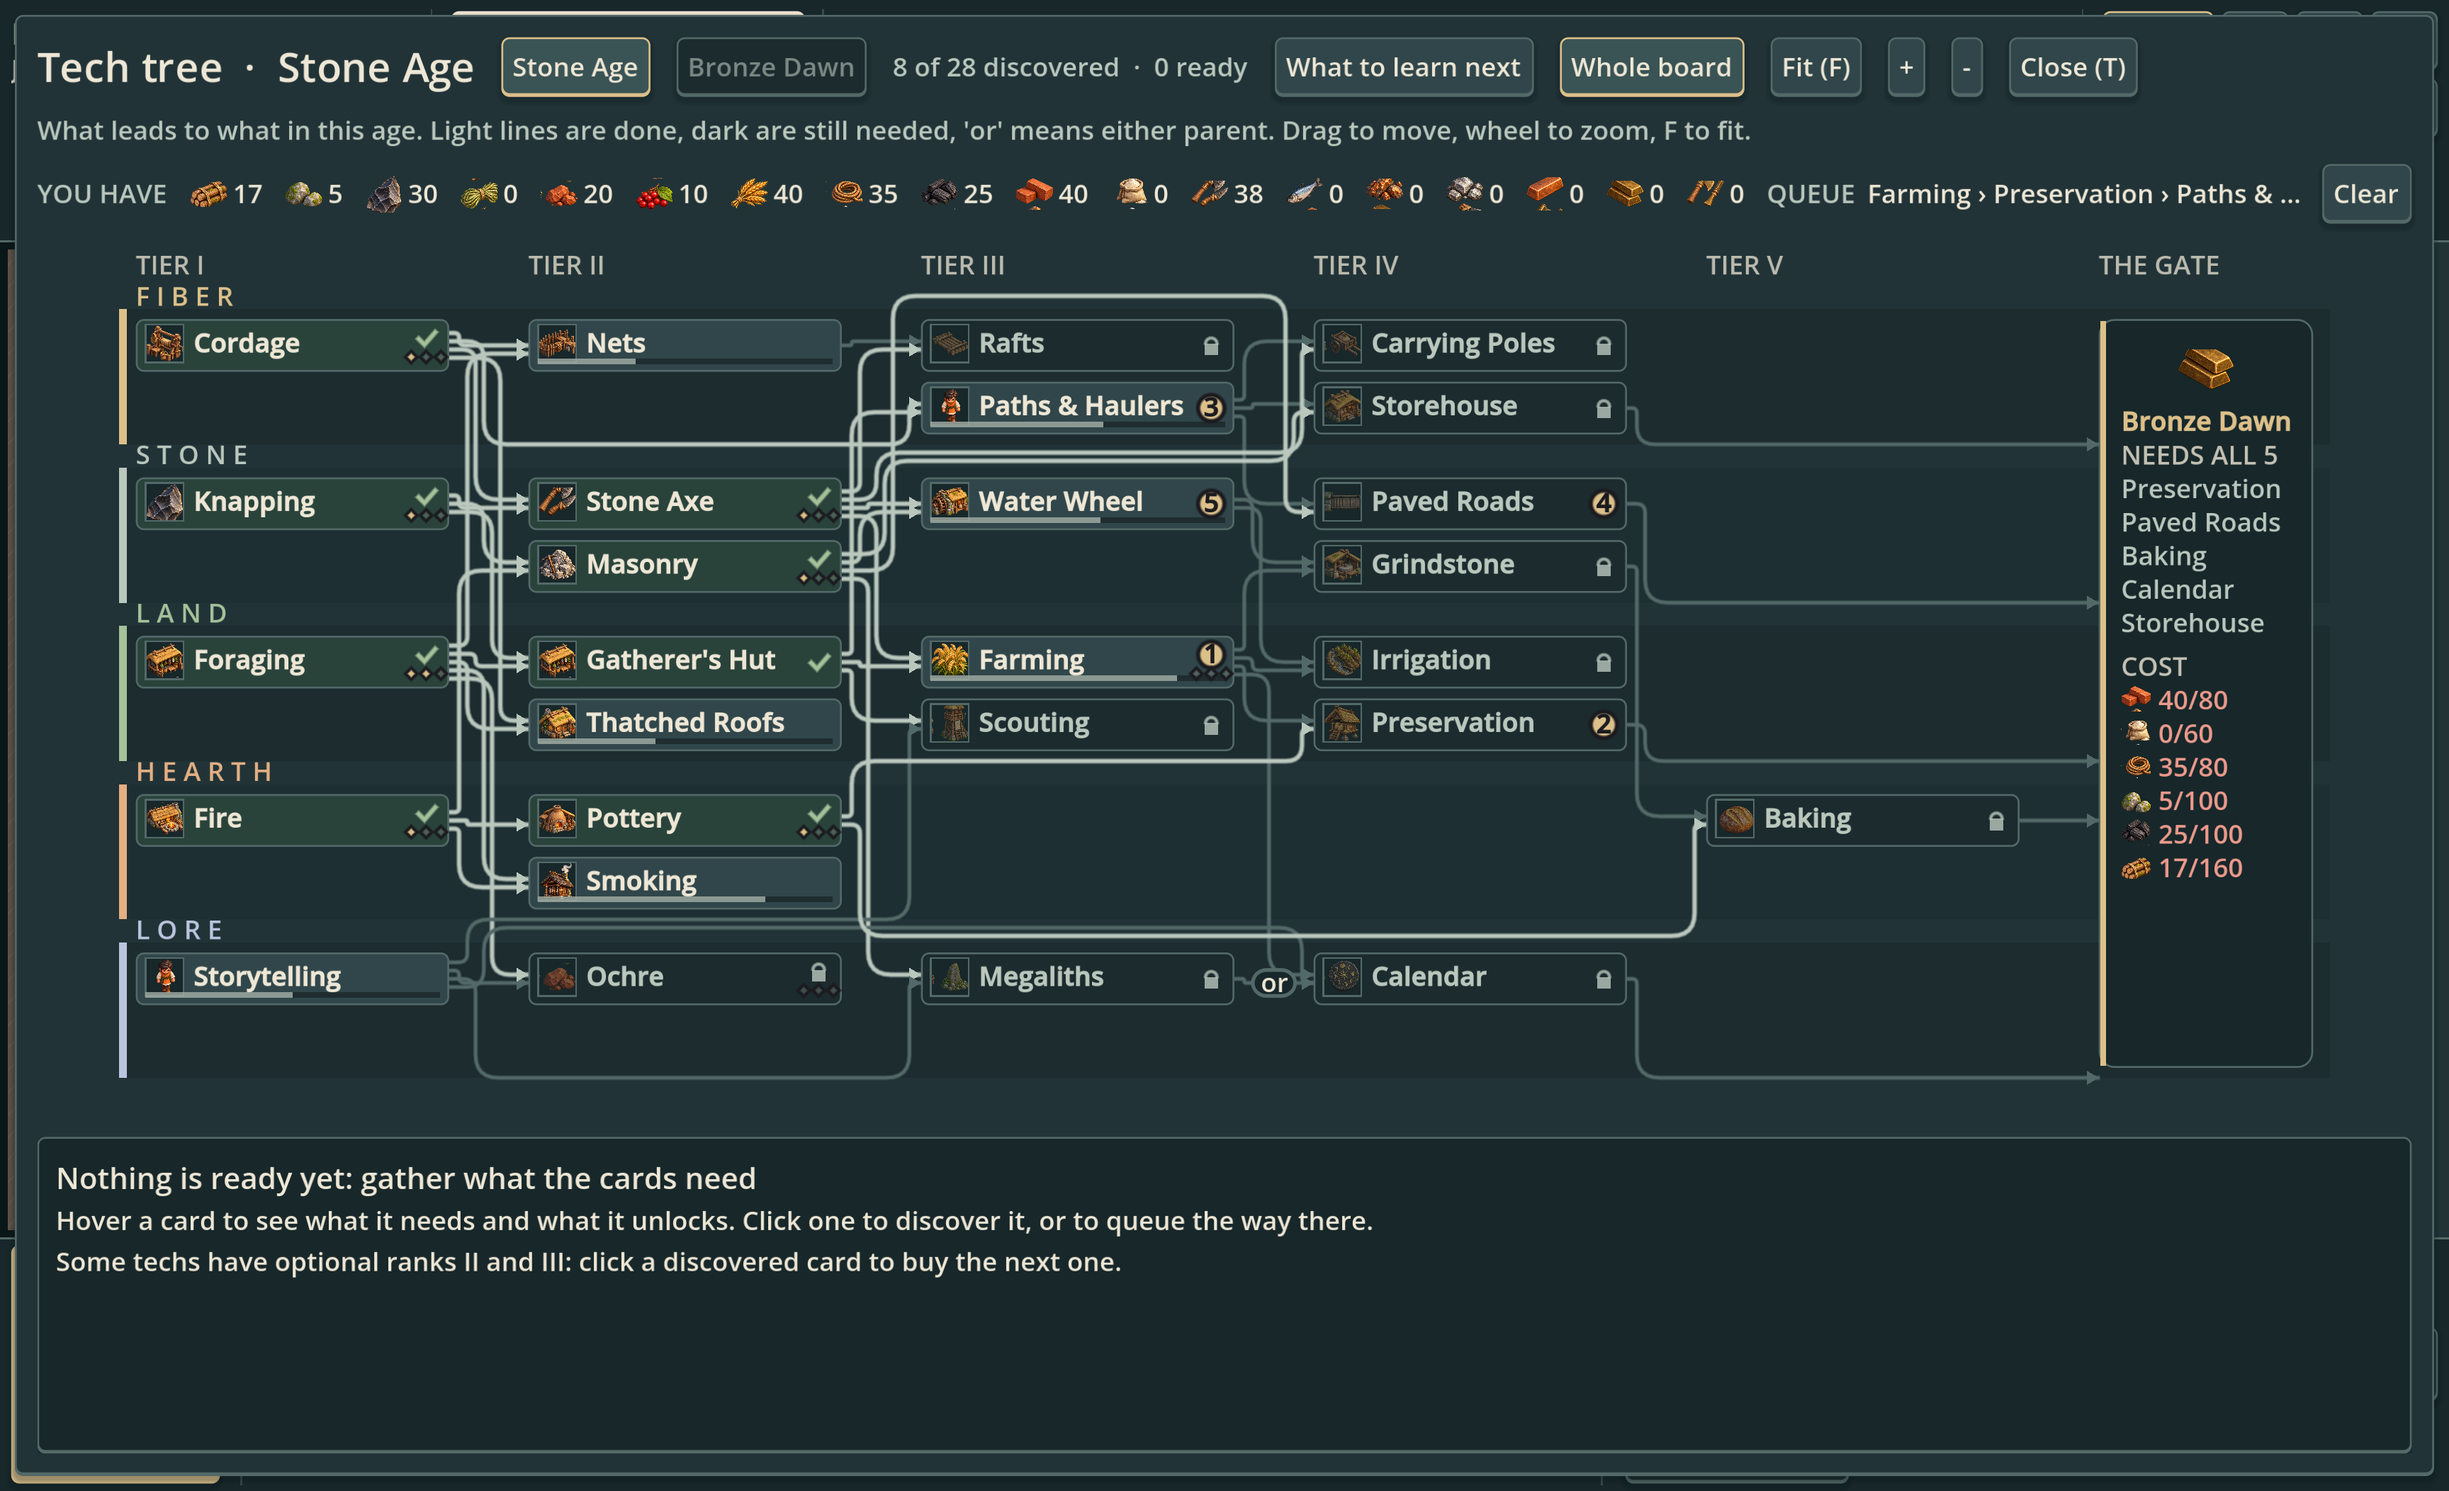
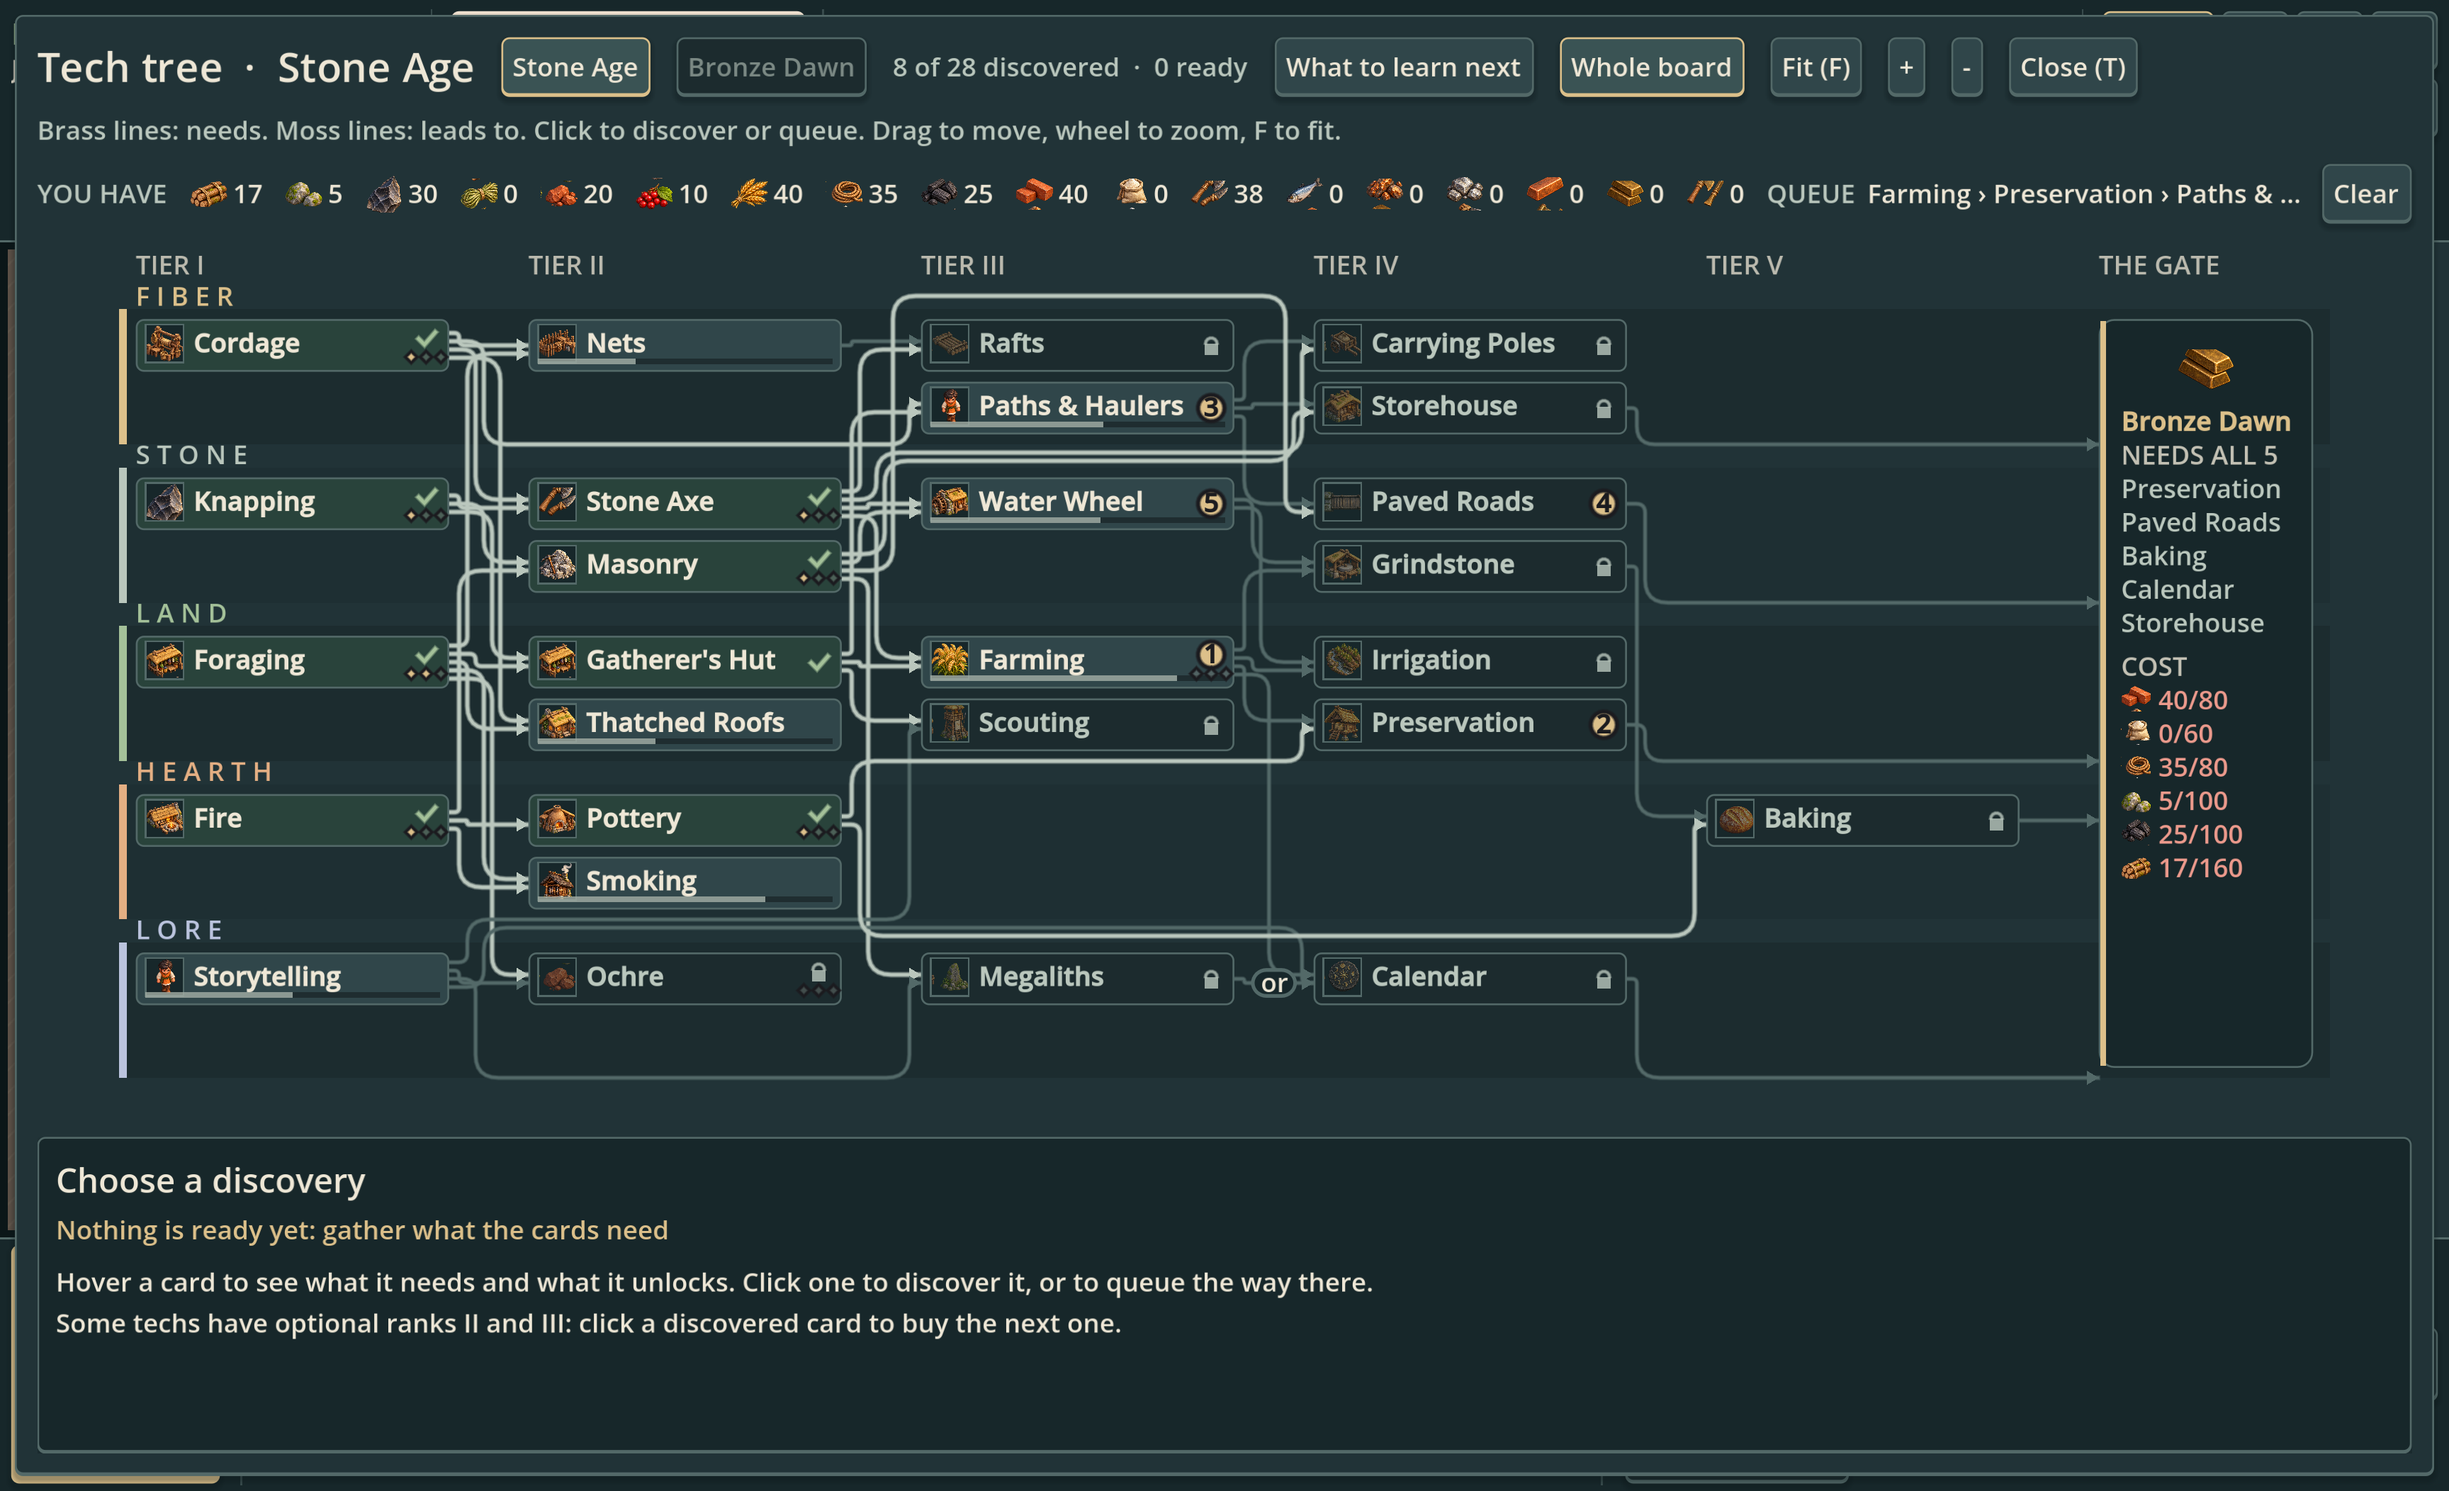
Clarify research names selection and dependency context

Changed region(s): [[0.0312, 0.7723, 0.5625, 0.8959], [0.0, 0.0618, 0.7188, 0.0927]]

diff --git a/docs/design-system/mockups/miniature-interface.md b/docs/design-system/mockups/miniature-interface.md
@@ -44,3 +44,16 @@ Shared themed scrollbars now serve research, the message log and other scroll co
 
 ![Stone Age research board after the theme audit](../../art/overhaul/misty-highlands/interface/research-board-stone.png)
 ![Matching milestone card](../../art/overhaul/misty-highlands/interface/milestone.png)
+
+## Research readability and persistent focus (2026-10-05)
+
+A clicked discovery now retains a distinct selected surface, brass selection rim/left rail and its immediate dependency context after the pointer leaves. Hovering another discovery previews that branch; leaving it restores the clicked branch. Incoming dependencies use brass and outgoing unlocks moss, matching the Needs/Leads to inspector labels. Other connections recede while card names remain opaque and at least 14 px. Either-or junctions retain their existing labels and rules; highlighting does not choose a new prerequisite route. Switching eras clears presentation focus.
+
+Names take priority over pictures on compact board cards: hide a picture if it would force the name to truncate. The tall gate's destination wraps onto multiple lines. Every hovered visible card has a full-name tooltip. Extreme zoom can still trim a compact label; the inspector always separates its full name from state, lane and optional-branch context.
+
+The fixed-height inspector now places an illustration, full title/state and existing action in a header, with explanation/costs on the left and Needs/Leads to/route on the right. Long detail text has full-text tooltips. The last hover inspection remains available while moving to the action when no clicked selection exists; a clicked selection returns when hover ends. Existing card clicks still discover, queue or buy an upgrade. No research rules, prices, queue ordering or save state changed.
+
+These actual Godot main-scene captures stage stock levels and selected cards for review; they are interface previews, not economy/balance playtest results.
+
+![Selected Masonry with incoming and outgoing paths](../../art/overhaul/misty-highlands/interface/research-selection.png)
+![Wrapped Falling Star destination and full-name inspector](../../art/overhaul/misty-highlands/interface/research-gate-selection.png)

diff --git a/docs/art/requests.md b/docs/art/requests.md
@@ -1,6 +1,7 @@
 # Art requests
 
 ## Codex visual implementation (art and engine wiring)
+- [x] Research-board readability (Codex, 2026-10-05; PR #33): persistent clicked focus, brass prerequisite/moss unlock paths, name-first compact cards, wrapped gate titles, full-name/detail tooltips and grouped inspector. Changes limited to TechBoard/TechPanel presentation and regression checks; existing research inputs/rules/prices/queue/save unchanged. Review [actual selected-tech previews](../design-system/mockups/miniature-interface.md#research-readability-and-persistent-focus-2026-10-05).
 - [x] Whole-interface theme audit (Codex, 2026-10-05; PR #33): miniature research illustrations throughout both eras/views; shared brass actions, charcoal icon frames/scrollbars, muted lane colors, milestone and notification styling. Touched presentation portions of Art/Rendered/Ui, BuildBar, TechBoard/TechPanel/TechNextView, EraCard and ToastStack plus UI checks. No research, simulation or save-rule changes. See [interface specification and actual captures](../design-system/mockups/miniature-interface.md). Terrain remains on visual review hold.
 - [x] Rendered miniature pipeline (Codex, 2026-10-04; PR #33): integrated transparent atlases, all map resource families, core buildings/workshops/industry, 18 item icons and fixed-anchor walking Kith in Godot. See [engine integration and real captures](overhaul/misty-highlands/engine/README.md). Existing IDs, footprints and 48 px default remain; Godot generated import metadata. No simulation/save changes.
 - [x] Coordinated variants and connected terrain (Codex, 2026-10-04; PR #33): stable map-seeded coordinate/family and Kith-name choices, independent of simulation RNG. One cached continuous meadow, connected roads and riverbanks, single-span bridge sampling, preserved fog/selection/placement behavior.

diff --git a/docs/design-system/decision-log.md b/docs/design-system/decision-log.md
@@ -490,3 +490,10 @@ Stage 2 of 2: the nine gated techs now do something, the gate is gone, and the e
 - All research illustrations now use miniature atlas art, preserving aspect ratio and existing icon IDs. New transparent research atlases affect UI only; original map sprites remain unchanged.
 - Unify brass primary actions, charcoal icon frames and scrollbars, muted lane accents and ember persistent alerts. Reduce excessive dependency-hover dimming and the gate's heavy double border.
 - Preserve established layout, input, progression and save behavior. Terrain quality remains a separate draft hold; technical UI validation does not constitute terrain approval.
+
+## 2026-10-05: Clarify research selection and dependencies (PR #33)
+- Codex followed Jon's request for the tech-tree readability pass. Preserve card activation and progression rules while improving presentation.
+- Keep clicked discovery focus after hover ends; use brass for incoming dependencies and moss for outgoing unlocks. Context remains immediate neighbours, with existing either-or labels. Era changes clear focus.
+- Give names priority over card pictures, retain opaque 14 px minimum labels, wrap gate destinations and provide full-name tooltips.
+- Reorganize the fixed-height inspector around a separate illustration/name/state/action header and grouped explanation/costs versus dependencies/route. Long details expose full-text tooltips.
+- Verify that inspection changes no resources, research or queue; retain actual Godot previews and exercise fitted layouts and existing discover/queue/upgrade input. Terrain remains on visual review hold.
